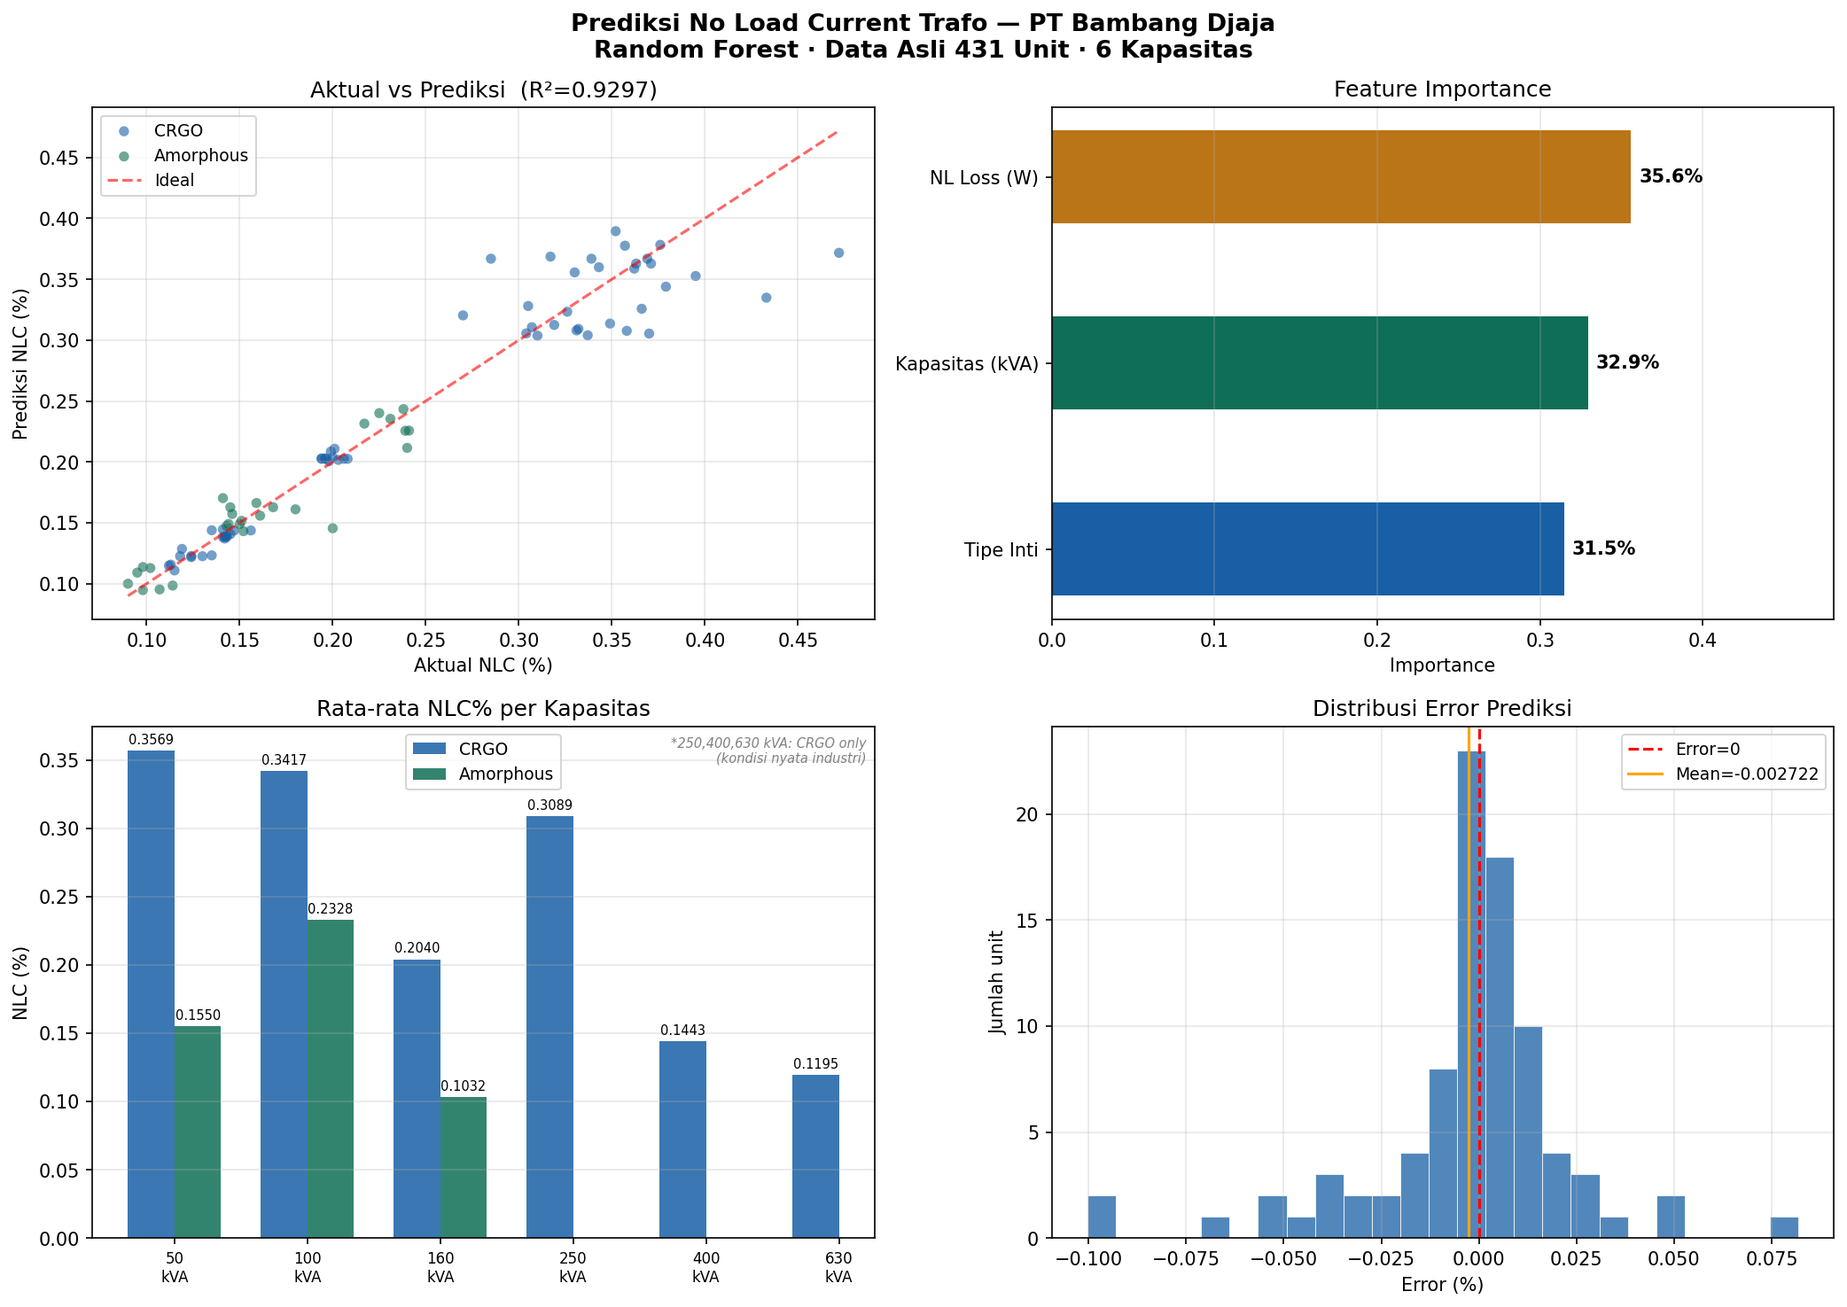
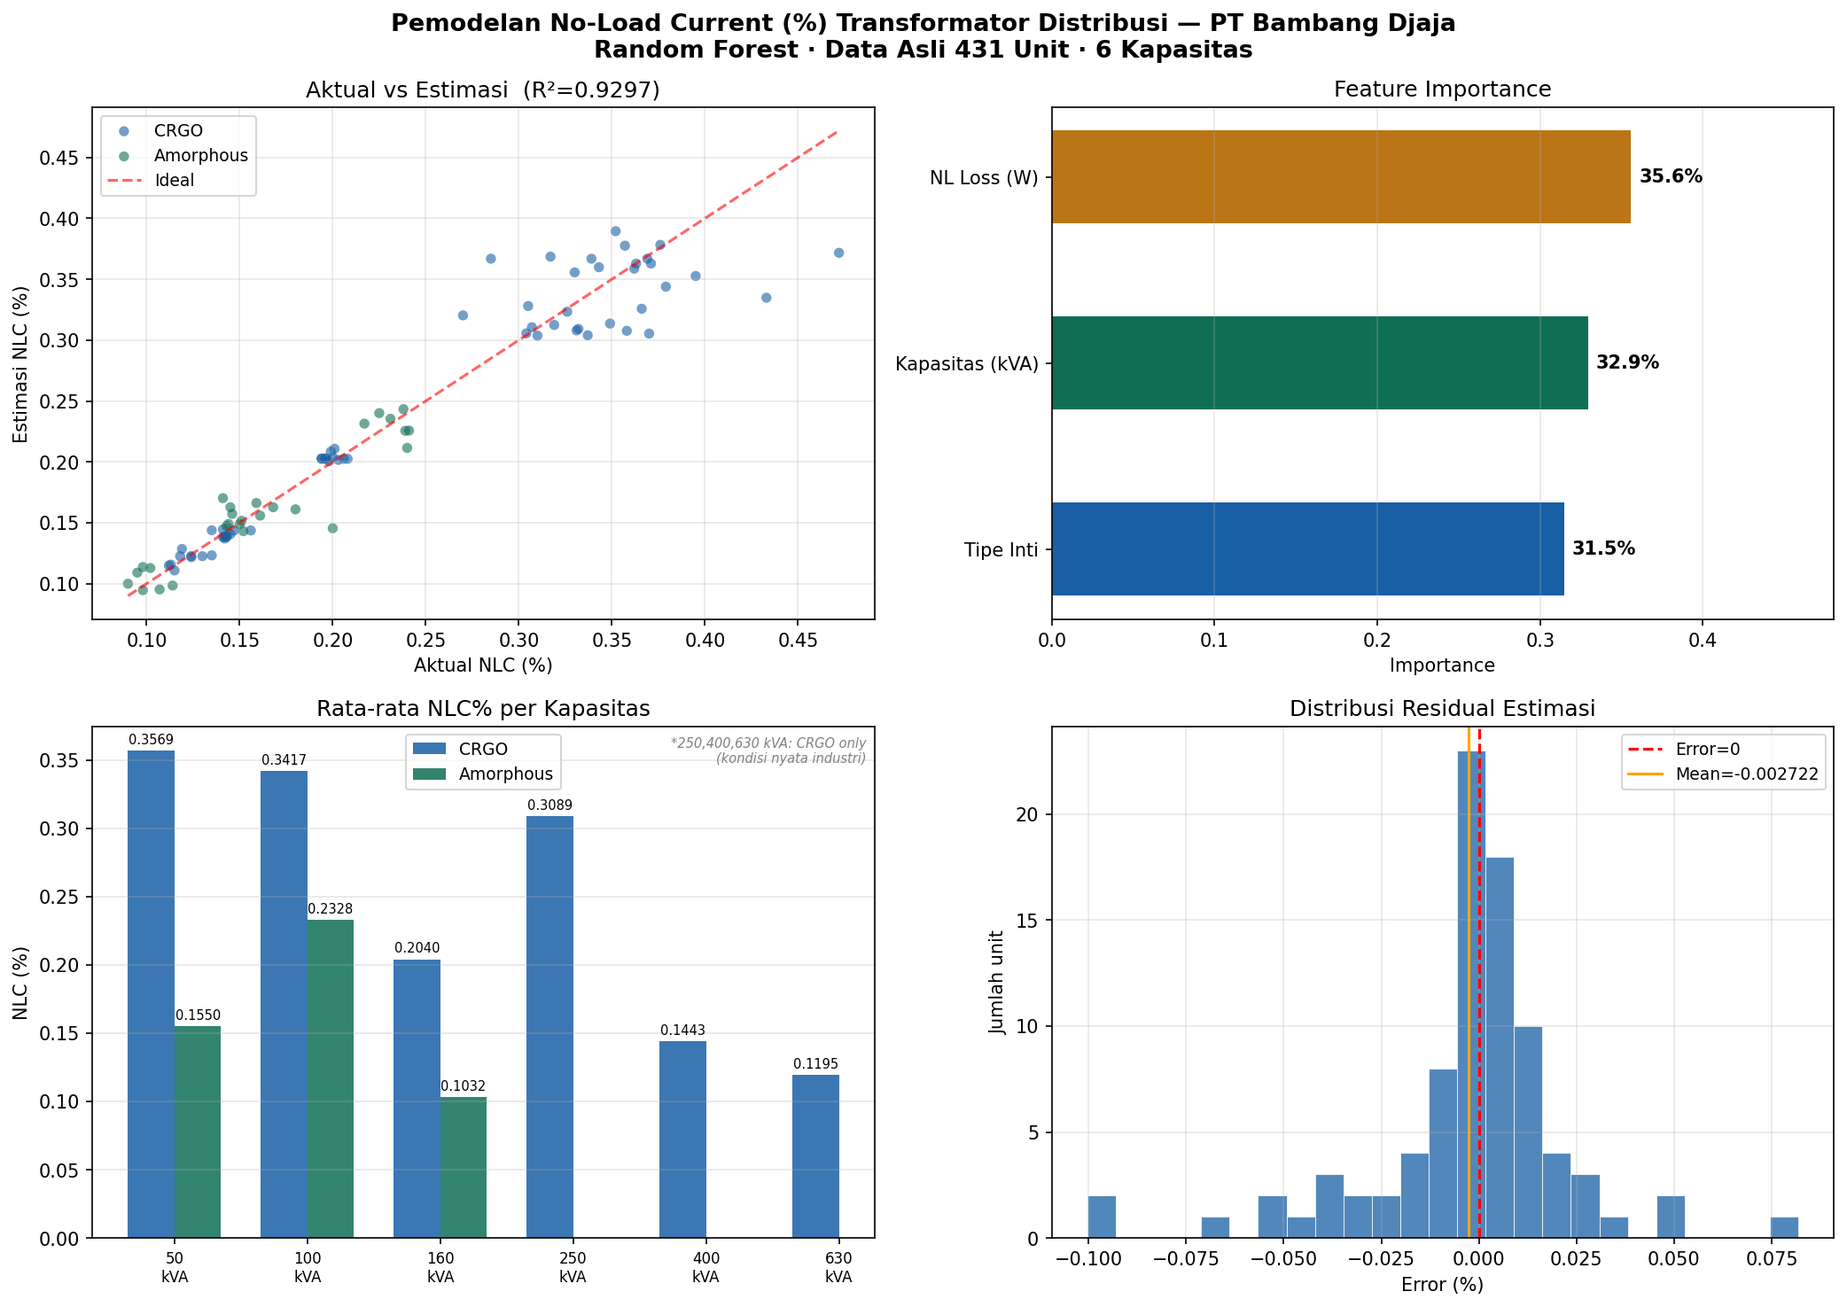
update aplikasi prediksi trafo

diff --git a/app.py b/app.py
@@ -1,5 +1,5 @@
 # ============================================================
-#  PREDIKSI NO LOAD CURRENT TRAFO DISTRIBUSI
+#  PEMODELAN NO-LOAD CURRENT (%) TRANSFORMATOR DISTRIBUSI
 #  PT Bambang Djaja — Random Forest
 #  v4.0 — 3 Fasa + 1 Fasa dalam satu aplikasi
 # ============================================================
@@ -16,7 +16,7 @@ from sklearn.preprocessing   import LabelEncoder
 from sklearn.metrics         import r2_score, mean_squared_error, mean_absolute_error
 
 st.set_page_config(
-    page_title="Prediksi NLC Trafo — PT Bambang Djaja",
+    page_title="Model NLC Transformator — PT Bambang Djaja",
     page_icon="⚡", layout="wide", initial_sidebar_state="expanded"
 )
 
@@ -217,7 +217,7 @@ def render_pred_result(pred, tt, nl_loss, ref_loss, tipe, label_extra=""):
     st.markdown(f"""
     <div style="background:#e8f0fb;border:2px solid {ACCENT};
         border-radius:14px;padding:28px;text-align:center;margin:14px 0;">
-        <div style="font-size:12px;color:{TEXT2};">Prediksi No Load Current {label_extra}</div>
+        <div style="font-size:12px;color:{TEXT2};">Estimasi No-Load Current {label_extra}</div>
         <div style="font-size:52px;font-weight:800;color:{ACCENT2};line-height:1.1;margin:8px 0;">{pred:.6f}</div>
         <div style="font-size:16px;color:{TEXT2};">%</div>
         <div style="font-size:11px;color:{TEXT3};margin-top:8px;">
@@ -272,7 +272,7 @@ r2_1, rmse_1, mae_1, acc_1, Xte_1, yte_1, ype_1 = get_metrics_1f()
 
 # ── SIDEBAR ───────────────────────────────────────────────────
 with st.sidebar:
-    st.markdown(f'<div style="font-size:15px;font-weight:700;color:{ACCENT2};">⚡ NLC Predictor — PT Bambang Djaja</div>',
+    st.markdown(f'<div style="font-size:15px;font-weight:700;color:{ACCENT2};">⚡ Model NLC — PT Bambang Djaja</div>',
                 unsafe_allow_html=True)
     st.markdown(f'<div style="height:1px;background:{BORDER};margin:12px 0;"></div>', unsafe_allow_html=True)
 
@@ -327,7 +327,7 @@ with st.sidebar:
                     unsafe_allow_html=True)
         st.markdown(f'<div style="height:1px;background:{BORDER};margin:12px 0 16px;"></div>', unsafe_allow_html=True)
 
-        prediksi_btn = st.button("⚡ Prediksi NLC%", use_container_width=True, key="pred_btn_3f")
+        prediksi_btn = st.button("⚡ Estimasi NLC (%)", use_container_width=True, key="pred_btn_3f")
         if st.button("🔄 Reset Input", use_container_width=True, key="reset_btn_3f"):
             st.session_state.kapasitas=100; st.session_state.tipe_inti='CRGO'
             st.session_state.nl_loss=129; st.session_state.hasil_pred=None; st.rerun()
@@ -373,7 +373,7 @@ with st.sidebar:
                     unsafe_allow_html=True)
         st.markdown(f'<div style="height:1px;background:{BORDER};margin:12px 0 16px;"></div>', unsafe_allow_html=True)
 
-        prediksi_btn_1f = st.button("⚡ Prediksi NLC%", use_container_width=True, key="pred_btn_1f")
+        prediksi_btn_1f = st.button("⚡ Estimasi NLC (%)", use_container_width=True, key="pred_btn_1f")
         if st.button("🔄 Reset Input", use_container_width=True, key="reset_btn_1f"):
             st.session_state.tipe_1f='CRGO'; st.session_state.nl_loss_1f=113
             st.session_state.hasil_pred_1f=None; st.rerun()
@@ -402,7 +402,7 @@ st.markdown(f"""
     display:flex;justify-content:space-between;align-items:center;flex-wrap:wrap;gap:8px;">
   <div>
     <div style="font-size:16px;font-weight:700;color:{TEXT};">
-      ⚡ Prediksi No Load Current Trafo Distribusi — {mode_now}</div>
+      ⚡ Pemodelan No-Load Current (%) Transformator Distribusi — {mode_now}</div>
     <div style="font-size:11px;color:{TEXT2};margin-top:3px;">PT Bambang Djaja · Random Forest · {desc}</div>
   </div>
   <div style="display:flex;gap:6px;flex-wrap:wrap;align-items:center;">
@@ -460,9 +460,9 @@ st.markdown(f"""
 #  MODE: 3 FASA
 # ══════════════════════════════════════════════════════════════
 if mode_now == '3 Fasa':
-    tab1, tab2, tab3, tab4 = st.tabs(["🎯 Prediksi", "📦 Batch Prediksi", "📊 Evaluasi Model", "📋 Data"])
+    tab1, tab2, tab3, tab4 = st.tabs(["🎯 Estimasi", "📦 Batch Estimasi", "📊 Evaluasi Model", "📋 Data"])
 
-    # ── TAB 1: PREDIKSI TUNGGAL ──
+    # ── TAB 1: ESTIMASI TUNGGAL ──
     with tab1:
         col1, col2 = st.columns([1,1], gap="large")
         with col1:
@@ -481,7 +481,7 @@ if mode_now == '3 Fasa':
                     <div style="font-size:52px;">⚡</div>
                     <div style="font-size:13px;margin-top:10px;">
                         Isi input di sidebar lalu klik<br>
-                        <b style="color:{ACCENT2};">Prediksi NLC%</b>
+                        <b style="color:{ACCENT2};">Estimasi NLC (%)</b>
                     </div>
                 </div>""", unsafe_allow_html=True)
 
@@ -527,7 +527,7 @@ if mode_now == '3 Fasa':
 
     # ── TAB 2: BATCH ──
     with tab2:
-        sec("Batch Prediksi","📦")
+        sec("Batch Estimasi","📦")
 
         def run_batch_3f(df_in):
             results=[]
@@ -538,7 +538,7 @@ if mode_now == '3 Fasa':
                 ref_l=LOSS_REF_3F[kva][tipe]; dev=(loss-ref_l)/ref_l*100
                 status="✅ LULUS TYPE TEST" if pred<=tt else ("⚠ DALAM TOLERANSI ±30%" if pred<=tol else "❌ TIDAK MEMENUHI STANDAR")
                 results.append({'kapasitas':kva,'tipe_inti':tipe,'nl_loss':loss,
-                    'nlc_prediksi_%':round(pred,6),'type_test_%':tt,
+                    'nlc_estimasi_%':round(pred,6),'type_test_%':tt,
                     'toleransi_+30%':round(tol,4),'status':status,'deviasi_loss_%':round(dev,2)})
             return pd.DataFrame(results)
 
@@ -572,7 +572,7 @@ if mode_now == '3 Fasa':
                         if len(df_valid):
                             st.success(f"✅ {len(df_valid)} baris valid")
                             st.dataframe(df_valid.head(10),use_container_width=True)
-                            if st.button("⚡ Prediksi dari CSV",key="pred_csv_3f"):
+                            if st.button("⚡ Estimasi dari CSV",key="pred_csv_3f"):
                                 df_res=run_batch_3f(df_valid)
                                 show_batch_summary(df_res)
                                 st.dataframe(df_res,use_container_width=True)
@@ -603,7 +603,7 @@ if mode_now == '3 Fasa':
                 st.dataframe(df_m,use_container_width=True,height=180)
                 cp,cc2=st.columns(2)
                 with cp:
-                    if st.button("⚡ Prediksi Semua",key="pred_man_3f"):
+                    if st.button("⚡ Estimasi Semua",key="pred_man_3f"):
                         st.session_state.batch_results=run_batch_3f(df_m)
                 with cc2:
                     if st.button("🗑 Hapus Semua",key="clear_3f"):
@@ -627,15 +627,15 @@ if mode_now == '3 Fasa':
 
         col1,col2=st.columns(2,gap="large")
         with col1:
-            sec("Aktual vs Prediksi")
+            sec("Aktual vs Estimasi")
             fig,ax=plt.subplots(figsize=(5.5,4.5))
             for tipe,color in [('CRGO','#185FA5'),('Amorphous','#0F6E56')]:
                 idx=[i for i,x in enumerate(Xte_3) if le3.classes_[int(round(x[1]))]==tipe]
                 ax.scatter([yte_3[i] for i in idx],[ype_3[i] for i in idx],c=color,label=tipe,alpha=0.7,s=45,edgecolors='none',zorder=3)
             mn=min(yte_3.min(),ype_3.min()); mx=max(yte_3.max(),ype_3.max())
             ax.plot([mn,mx],[mn,mx],'r--',linewidth=1.5,alpha=0.6,label='Ideal')
-            ax.set_xlabel('Aktual NLC (%)'); ax.set_ylabel('Prediksi NLC (%)')
-            ax.set_title(f'Aktual vs Prediksi  (R² = {r2_3:.4f})')
+            ax.set_xlabel('Aktual NLC (%)'); ax.set_ylabel('Estimasi NLC (%)')
+            ax.set_title(f'Aktual vs Estimasi  (R² = {r2_3:.4f})')
             ax.legend(fontsize=9); ax.grid(True,alpha=0.3,zorder=0)
             plt.tight_layout(); st.pyplot(fig); plt.close()
         with col2:
@@ -653,7 +653,7 @@ if mode_now == '3 Fasa':
             ax.set_title('Feature Importance'); ax.grid(True,alpha=0.3,axis='x',zorder=0)
             plt.tight_layout(); st.pyplot(fig); plt.close()
 
-        sec("Distribusi Error Prediksi")
+        sec("Distribusi Residual Estimasi")
         fig,ax=plt.subplots(figsize=(11,3.2))
         errors=ype_3-yte_3
         ax.hist(errors,bins=25,color='#185FA5',alpha=0.8,edgecolor='none',zorder=3)
@@ -703,9 +703,9 @@ if mode_now == '3 Fasa':
 #  MODE: 1 FASA
 # ══════════════════════════════════════════════════════════════
 else:
-    tab1, tab2, tab3, tab4 = st.tabs(["🎯 Prediksi", "📦 Batch Prediksi", "📊 Evaluasi Model", "📋 Data"])
+    tab1, tab2, tab3, tab4 = st.tabs(["🎯 Estimasi", "📦 Batch Estimasi", "📊 Evaluasi Model", "📋 Data"])
 
-    # ── TAB 1: PREDIKSI TUNGGAL 1F ──
+    # ── TAB 1: ESTIMASI TUNGGAL 1F ──
     with tab1:
         col1,col2=st.columns([1,1],gap="large")
         with col1:
@@ -724,7 +724,7 @@ else:
                     <div style="font-size:52px;">⚡</div>
                     <div style="font-size:13px;margin-top:10px;">
                         Pilih tipe inti & NL Loss di sidebar<br>lalu klik
-                        <b style="color:{ACCENT2};">Prediksi NLC%</b>
+                        <b style="color:{ACCENT2};">Estimasi NLC (%)</b>
                     </div>
                 </div>""", unsafe_allow_html=True)
 
@@ -757,7 +757,7 @@ else:
 
     # ── TAB 2: BATCH 1F ──
     with tab2:
-        sec("Batch Prediksi — 1 Fasa","📦")
+        sec("Batch Estimasi — 1 Fasa","📦")
 
         def run_batch_1f(df_in):
             results=[]
@@ -767,7 +767,7 @@ else:
                 tt=TYPE_TEST_1F[tipe]; tol=tt*1.30
                 ref_l=LOSS_REF_1F[tipe]; dev=(loss-ref_l)/ref_l*100
                 status="✅ LULUS TYPE TEST" if pred<=tt else ("⚠ DALAM TOLERANSI ±30%" if pred<=tol else "❌ TIDAK MEMENUHI STANDAR")
-                results.append({'tipe_inti':tipe,'nl_loss':loss,'nlc_prediksi_%':round(pred,6),
+                results.append({'tipe_inti':tipe,'nl_loss':loss,'nlc_estimasi_%':round(pred,6),
                     'type_test_%':tt,'toleransi_+30%':round(tol,4),'status':status,'deviasi_loss_%':round(dev,2)})
             return pd.DataFrame(results)
 
@@ -798,7 +798,7 @@ else:
                         if len(df_valid_1f):
                             st.success(f"✅ {len(df_valid_1f)} baris valid")
                             st.dataframe(df_valid_1f.head(10),use_container_width=True)
-                            if st.button("⚡ Prediksi dari CSV",key="pred_csv_1f"):
+                            if st.button("⚡ Estimasi dari CSV",key="pred_csv_1f"):
                                 df_res_1f=run_batch_1f(df_valid_1f)
                                 show_batch_summary_1f(df_res_1f)
                                 st.dataframe(df_res_1f,use_container_width=True)
@@ -825,7 +825,7 @@ else:
                 st.dataframe(df_m_1f,use_container_width=True,height=180)
                 cp1f,cc_1f2=st.columns(2)
                 with cp1f:
-                    if st.button("⚡ Prediksi Semua",key="pred_man_1f"):
+                    if st.button("⚡ Estimasi Semua",key="pred_man_1f"):
                         st.session_state.batch_results_1f=run_batch_1f(df_m_1f)
                 with cc_1f2:
                     if st.button("🗑 Hapus Semua",key="clear_1f"):
@@ -849,15 +849,15 @@ else:
 
         col1,col2=st.columns(2,gap="large")
         with col1:
-            sec("Aktual vs Prediksi")
+            sec("Aktual vs Estimasi")
             fig,ax=plt.subplots(figsize=(5.5,4.5))
             for tipe,color in [('CRGO','#185FA5'),('Amorphous','#0F6E56')]:
                 idx=[i for i,x in enumerate(Xte_1) if le1.classes_[int(round(x[1]))]==tipe]
                 ax.scatter([yte_1[i] for i in idx],[ype_1[i] for i in idx],c=color,label=tipe,alpha=0.7,s=45,edgecolors='none',zorder=3)
             mn=min(yte_1.min(),ype_1.min()); mx=max(yte_1.max(),ype_1.max())
             ax.plot([mn,mx],[mn,mx],'r--',linewidth=1.5,alpha=0.6,label='Ideal')
-            ax.set_xlabel('Aktual NLC (%)'); ax.set_ylabel('Prediksi NLC (%)')
-            ax.set_title(f'Aktual vs Prediksi  (R² = {r2_1:.4f})')
+            ax.set_xlabel('Aktual NLC (%)'); ax.set_ylabel('Estimasi NLC (%)')
+            ax.set_title(f'Aktual vs Estimasi  (R² = {r2_1:.4f})')
             ax.legend(fontsize=9); ax.grid(True,alpha=0.3,zorder=0)
             plt.tight_layout(); st.pyplot(fig); plt.close()
 
@@ -876,7 +876,7 @@ else:
             ax.legend(fontsize=9); ax.grid(True,alpha=0.3,zorder=0)
             plt.tight_layout(); st.pyplot(fig); plt.close()
 
-        sec("Distribusi Error Prediksi")
+        sec("Distribusi Residual Estimasi")
         fig,ax=plt.subplots(figsize=(11,3.2))
         errors_1=ype_1-yte_1
         ax.hist(errors_1,bins=20,color='#185FA5',alpha=0.8,edgecolor='none',zorder=3)
@@ -925,7 +925,7 @@ else:
 st.markdown(
     f'<div style="text-align:center;color:{TEXT3};font-size:11px;margin-top:2rem;'
     f'padding:12px;border-top:1px solid {BORDER};">'
-    f'Prediksi No Load Current Trafo · PT Bambang Djaja · Random Forest · v4.0 · '
+    f'Pemodelan No-Load Current (%) Transformator Distribusi · PT Bambang Djaja · Random Forest · v4.0 · '
     f'3 Fasa (431 unit) + 1 Fasa (96 unit)</div>',
     unsafe_allow_html=True
 )

diff --git a/train_model_1fasa.py b/train_model_1fasa.py
@@ -1,5 +1,5 @@
 # ============================================================
-#  PREDIKSI NO LOAD CURRENT TRAFO DISTRIBUSI 1 FASA
+#  PEMODELAN NO-LOAD CURRENT (%) TRANSFORMATOR DISTRIBUSI 1 FASA
 #  PT Bambang Djaja — Random Forest
 #  Input  : nl_loss (W), tipe_inti (CRGO / Amorphous)
 #  Output : nlc_persen (%)
@@ -23,7 +23,7 @@ LE_PATH    = os.path.join(MODEL_DIR, 'label_encoder_1fasa.pkl')
 os.makedirs(MODEL_DIR, exist_ok=True)
 
 print("="*60)
-print("  PREDIKSI NO LOAD CURRENT TRAFO 1 FASA — PT BAMBANG DJAJA")
+print("  PEMODELAN NO-LOAD CURRENT (%) TRAFO 1 FASA — PT BAMBANG DJAJA")
 print("  v2.0 — CRGO & Amorphous")
 print("="*60)
 
@@ -96,7 +96,7 @@ print(f"    {LE_PATH} ✅")
 print("\n[7] Membuat grafik...")
 fig, axes = plt.subplots(1, 3, figsize=(16, 5))
 fig.suptitle(
-    'Prediksi No Load Current Trafo 1 Fasa — PT Bambang Djaja\n'
+    'Pemodelan No-Load Current (%) Transformator Distribusi 1 Fasa — PT Bambang Djaja\n'
     'Random Forest · Data Asli 96 Unit · 50 kVA · CRGO & Amorphous',
     fontsize=13, fontweight='bold'
 )
@@ -104,7 +104,7 @@ fig.suptitle(
 r2_te = r2_score(y_test, yp_te)
 colors_map = {'CRGO': '#185FA5', 'Amorphous': '#0F6E56'}
 
-# Plot 1: Aktual vs Prediksi
+# Plot 1: Aktual vs Estimasi
 ax1 = axes[0]
 for tipe in ['CRGO', 'Amorphous']:
     idx = [i for i, x in enumerate(X_test) if le.classes_[int(round(x[1]))] == tipe]
@@ -114,8 +114,8 @@ for tipe in ['CRGO', 'Amorphous']:
 mn = min(y_test.min(), yp_te.min())
 mx = max(y_test.max(), yp_te.max())
 ax1.plot([mn, mx], [mn, mx], 'r--', linewidth=1.5, alpha=0.6, label='Ideal')
-ax1.set_xlabel('Aktual NLC (%)'); ax1.set_ylabel('Prediksi NLC (%)')
-ax1.set_title(f'Aktual vs Prediksi  (R²={r2_te:.4f})')
+ax1.set_xlabel('Aktual NLC (%)'); ax1.set_ylabel('Estimasi NLC (%)')
+ax1.set_title(f'Aktual vs Estimasi  (R²={r2_te:.4f})')
 ax1.legend(fontsize=9); ax1.grid(True, alpha=0.3)
 
 # Plot 2: NLC vs NL Loss per Tipe Inti
@@ -144,7 +144,7 @@ ax3.hist(errors, bins=15, color='#185FA5', alpha=0.75, edgecolor='white', linewi
 ax3.axvline(0,             color='red',    linestyle='--', linewidth=1.5, label='Error=0')
 ax3.axvline(errors.mean(), color='orange', linestyle='-',  linewidth=1.5, label=f'Mean={errors.mean():.6f}')
 ax3.set_xlabel('Error (%)'); ax3.set_ylabel('Jumlah unit')
-ax3.set_title('Distribusi Error Prediksi')
+ax3.set_title('Distribusi Residual Estimasi')
 ax3.legend(fontsize=9); ax3.grid(True, alpha=0.3)
 
 plt.tight_layout()
@@ -152,9 +152,9 @@ plt.savefig('hasil_evaluasi_1fasa.png', dpi=150, bbox_inches='tight')
 plt.show()
 print("    hasil_evaluasi_1fasa.png ✅")
 
-# 8. CONTOH PREDIKSI
-print("\n[8] Contoh prediksi unit baru:")
-print(f"    {'Tipe Inti':<12} {'NL Loss':>10}  {'Prediksi NLC%':>14}")
+# 8. CONTOH ESTIMASI
+print("\n[8] Contoh estimasi unit baru:")
+print(f"    {'Tipe Inti':<12} {'NL Loss':>10}  {'Estimasi NLC%':>14}")
 print(f"    {'-'*40}")
 contoh = [
     ('CRGO',      106), ('CRGO',      110), ('CRGO',      115), ('CRGO',      120),

diff --git a/train_model.py b/train_model.py
@@ -1,5 +1,5 @@
 # ============================================================
-#  PREDIKSI NO LOAD CURRENT TRAFO DISTRIBUSI 3 FASA
+#  PEMODELAN NO-LOAD CURRENT (%) TRANSFORMATOR DISTRIBUSI 3 FASA
 #  PT Bambang Djaja — Random Forest
 #  Input  : kapasitas (kVA), tipe inti, nl_loss (W)
 #  Output : nlc_persen (%)
@@ -23,7 +23,7 @@ LE_PATH    = os.path.join(MODEL_DIR,'label_encoder.pkl')
 os.makedirs(MODEL_DIR, exist_ok=True)
 
 print("="*60)
-print("  PREDIKSI NO LOAD CURRENT — PT BAMBANG DJAJA")
+print("  PEMODELAN NO-LOAD CURRENT (%) — PT BAMBANG DJAJA")
 print("="*60)
 
 # 1. LOAD DATA
@@ -96,11 +96,11 @@ print(f"    {LE_PATH} ✅")
 # 7. VISUALISASI
 print("\n[7] Membuat grafik...")
 fig,axes=plt.subplots(2,2,figsize=(14,10))
-fig.suptitle('Prediksi No Load Current Trafo — PT Bambang Djaja\nRandom Forest · Data Asli 431 Unit · 6 Kapasitas',
+fig.suptitle('Pemodelan No-Load Current (%) Transformator Distribusi — PT Bambang Djaja\nRandom Forest · Data Asli 431 Unit · 6 Kapasitas',
              fontsize=13,fontweight='bold')
 
 r2_te = r2_score(y_test,yp_te)
-# Plot 1: Aktual vs Prediksi
+# Plot 1: Aktual vs Estimasi
 ax1=axes[0,0]
 colors_map={'CRGO':'#185FA5','Amorphous':'#0F6E56'}
 for tipe in ['CRGO','Amorphous']:
@@ -110,8 +110,8 @@ for tipe in ['CRGO','Amorphous']:
                     c=colors_map[tipe],label=tipe,alpha=0.6,s=30,edgecolors='none')
 mn,mx=min(y_test.min(),yp_te.min()),max(y_test.max(),yp_te.max())
 ax1.plot([mn,mx],[mn,mx],'r--',linewidth=1.5,alpha=0.6,label='Ideal')
-ax1.set_xlabel('Aktual NLC (%)'); ax1.set_ylabel('Prediksi NLC (%)')
-ax1.set_title(f'Aktual vs Prediksi  (R²={r2_te:.4f})')
+ax1.set_xlabel('Aktual NLC (%)'); ax1.set_ylabel('Estimasi NLC (%)')
+ax1.set_title(f'Aktual vs Estimasi  (R²={r2_te:.4f})')
 ax1.legend(fontsize=9); ax1.grid(True,alpha=0.3)
 
 # Plot 2: Feature Importance
@@ -151,7 +151,7 @@ ax4.hist(errors,bins=25,color='#185FA5',alpha=0.75,edgecolor='white',linewidth=0
 ax4.axvline(0,color='red',linestyle='--',linewidth=1.5,label='Error=0')
 ax4.axvline(errors.mean(),color='orange',linestyle='-',linewidth=1.5,label=f'Mean={errors.mean():.6f}')
 ax4.set_xlabel('Error (%)'); ax4.set_ylabel('Jumlah unit')
-ax4.set_title('Distribusi Error Prediksi')
+ax4.set_title('Distribusi Residual Estimasi')
 ax4.legend(fontsize=9); ax4.grid(True,alpha=0.3)
 
 plt.tight_layout()
@@ -159,9 +159,9 @@ plt.savefig('hasil_evaluasi.png',dpi=150,bbox_inches='tight')
 plt.show()
 print("    hasil_evaluasi.png ✅")
 
-# 8. CONTOH PREDIKSI
-print("\n[8] Contoh prediksi unit baru:")
-print(f"    {'kVA':<6} {'Tipe Inti':<12} {'NL Loss':>10}  {'Prediksi NLC%':>14}")
+# 8. CONTOH ESTIMASI
+print("\n[8] Contoh estimasi unit baru:")
+print(f"    {'kVA':<6} {'Tipe Inti':<12} {'NL Loss':>10}  {'Estimasi NLC%':>14}")
 print(f"    {'-'*50}")
 contoh=[(50,'Amorphous',38),(50,'CRGO',84),(100,'Amorphous',35),(100,'CRGO',129),
         (160,'Amorphous',78),(160,'CRGO',183),(250,'CRGO',295),(400,'CRGO',393),(630,'CRGO',553)]
